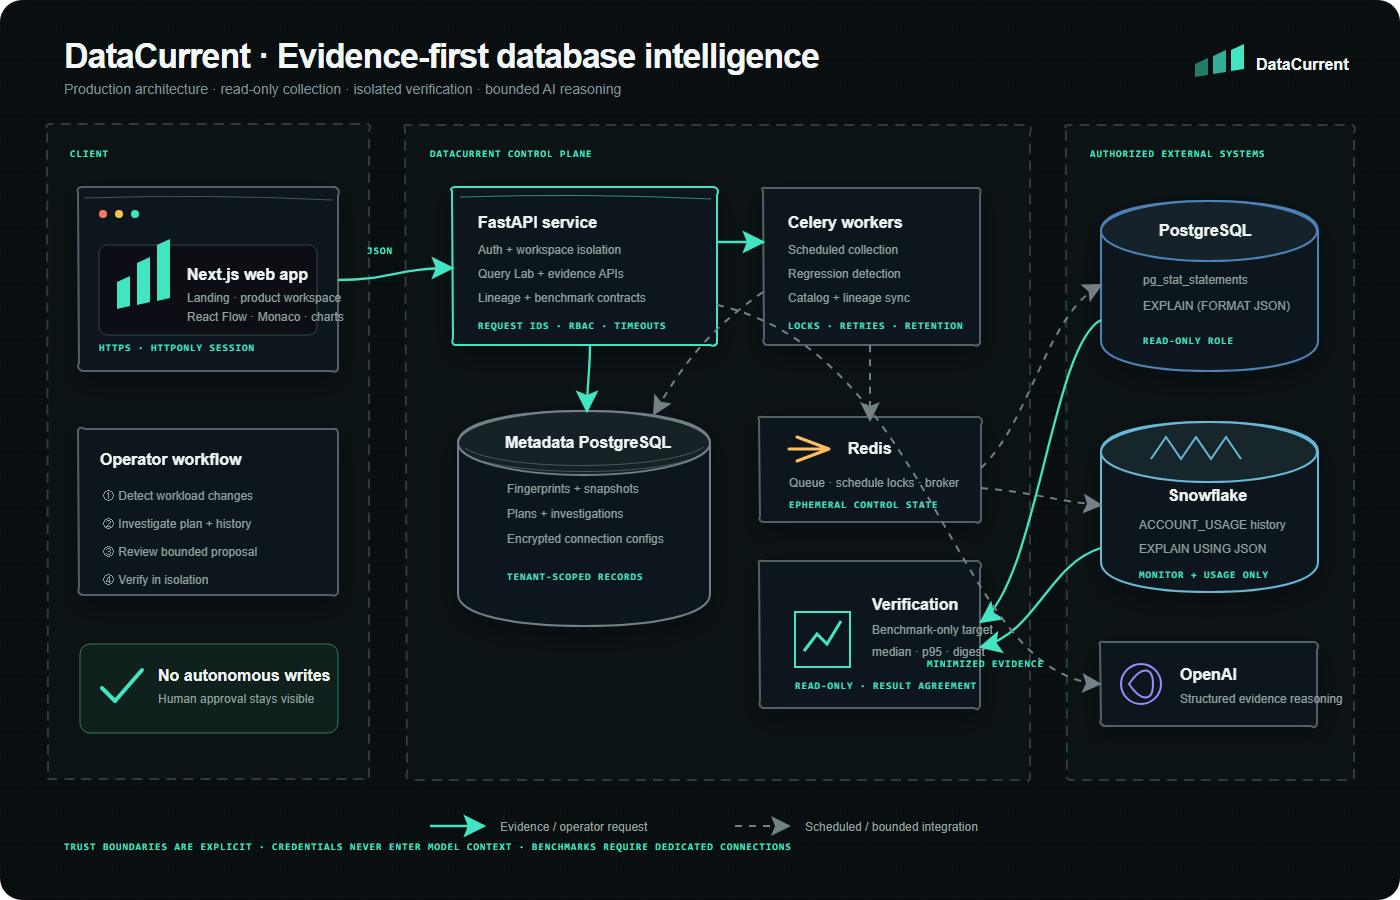
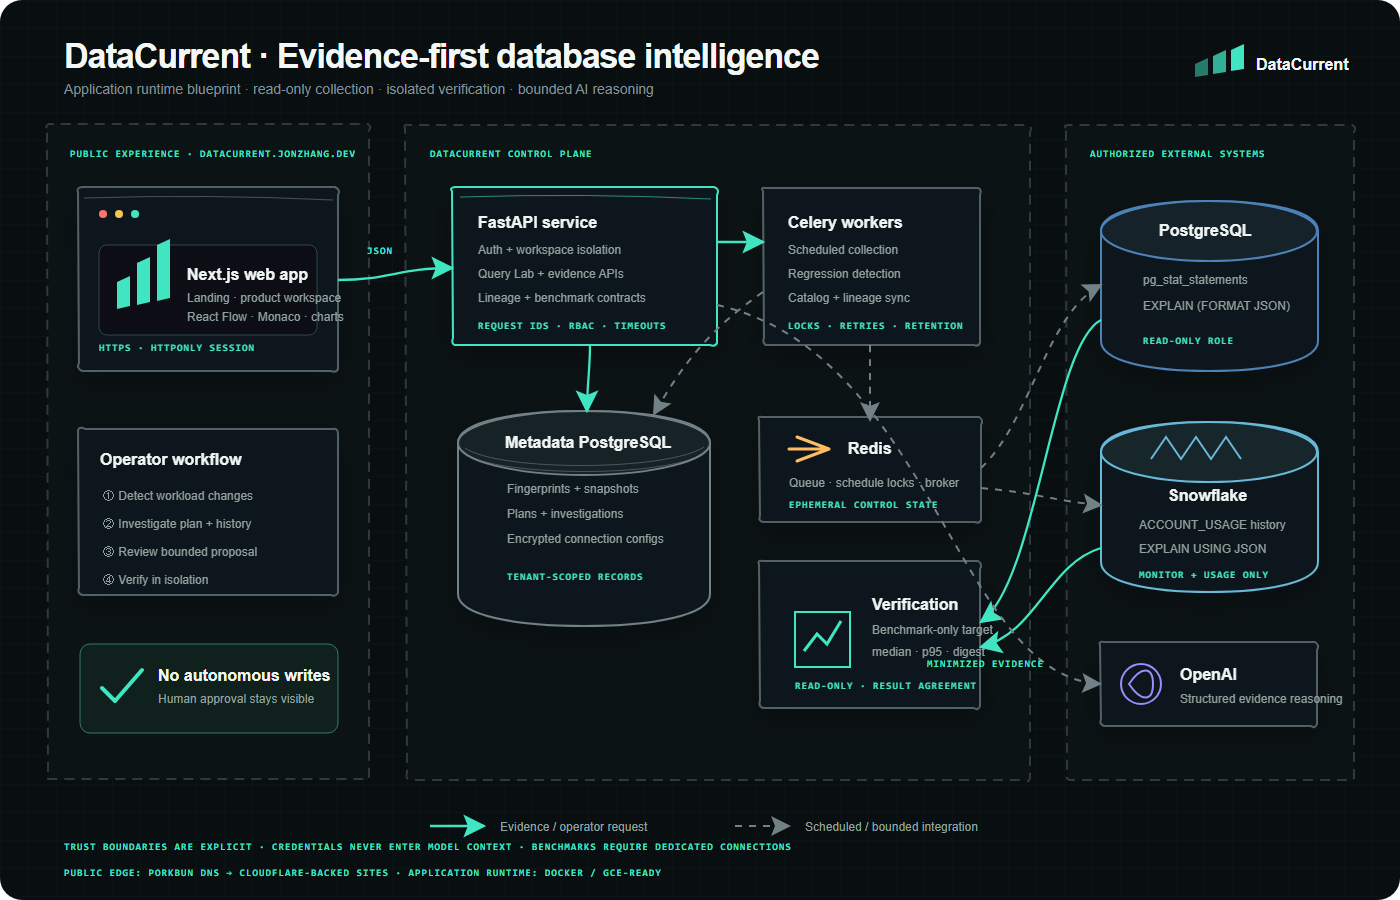
docs: document public edge deployment

diff --git a/README.md b/README.md
@@ -41,6 +41,8 @@ The product includes a polished landing experience, a working product workspace,
 
 The control plane never sends database credentials or arbitrary row data to the model. Database connections are encrypted at rest, collection uses read-only roles, AI receives minimized authorized evidence through narrow tools, and empirical verification requires an explicitly marked benchmark connection.
 
+The public product surface is served at **[datacurrent.jonzhang.dev](https://datacurrent.jonzhang.dev)** through Porkbun-managed authoritative DNS and the Cloudflare-backed Sites edge. The containerized application runtime is a separate deployment surface, so the public experience remains available without placing the database control plane in the request path.
+
 Read the [architecture](docs/architecture.md), [security model](docs/security.md), and [operations guide](docs/operations.md).
 
 ## Run it locally
@@ -102,7 +104,7 @@ CI runs the same Python, TypeScript, unit, browser, and image-build checks. Depe
 
 ## Production
 
-The production profile runs the real Next.js, FastAPI, Celery, PostgreSQL, and Redis services behind automatic HTTPS. See the [Google Compute Engine deployment guide](docs/production-deployment.md) for provisioning, secrets, DNS, backups, verification, and rollback.
+The public product site is live on the custom domain through the no-cost Sites edge. The production profile for the full application runs the real Next.js, FastAPI, Celery, PostgreSQL, and Redis services behind automatic HTTPS; its Google Compute Engine rollout is deployment-ready but intentionally deferred until cloud compute is desired. See the [deployment guide](docs/production-deployment.md) for provisioning, secrets, DNS, backups, verification, and rollback.
 
 ## Repository map
 

diff --git a/docs/architecture.md b/docs/architecture.md
@@ -39,5 +39,15 @@ Every user-facing metadata query is scoped through a validated workspace members
 
 ## Deployment shape
 
+DataCurrent separates the public product surface from the database control plane:
+
+| Surface | Current route | Responsibility |
+|---|---|---|
+| Public product site | `datacurrent.jonzhang.dev` → Porkbun authoritative DNS → Cloudflare-backed Sites edge | Product story and interactive product experience without database credentials or source connectivity |
+| Application runtime | Docker Compose production profile; Google Compute Engine profile deployment-ready | Next.js, FastAPI, Celery worker/beat, metadata PostgreSQL, Redis, backups, and automatic HTTPS |
+| Authorized data systems | Outbound, read-only PostgreSQL and Snowflake connections | Workload statistics, plans, catalog metadata, lineage evidence, and isolated benchmarks |
+
+The public edge is active without a paid compute dependency. The full application runtime remains independently deployable and is not implied to be hosted by Porkbun or the public Sites surface. This boundary keeps marketing availability, application compute, and customer database access operationally distinct.
+
 The repository ships production images for the web and API/worker runtimes. Compose is the reproducible development and single-host deployment baseline. For a distributed deployment, run the same images behind TLS, use managed PostgreSQL and Redis, inject secrets from a secrets manager, and scale API and workers independently.
 
